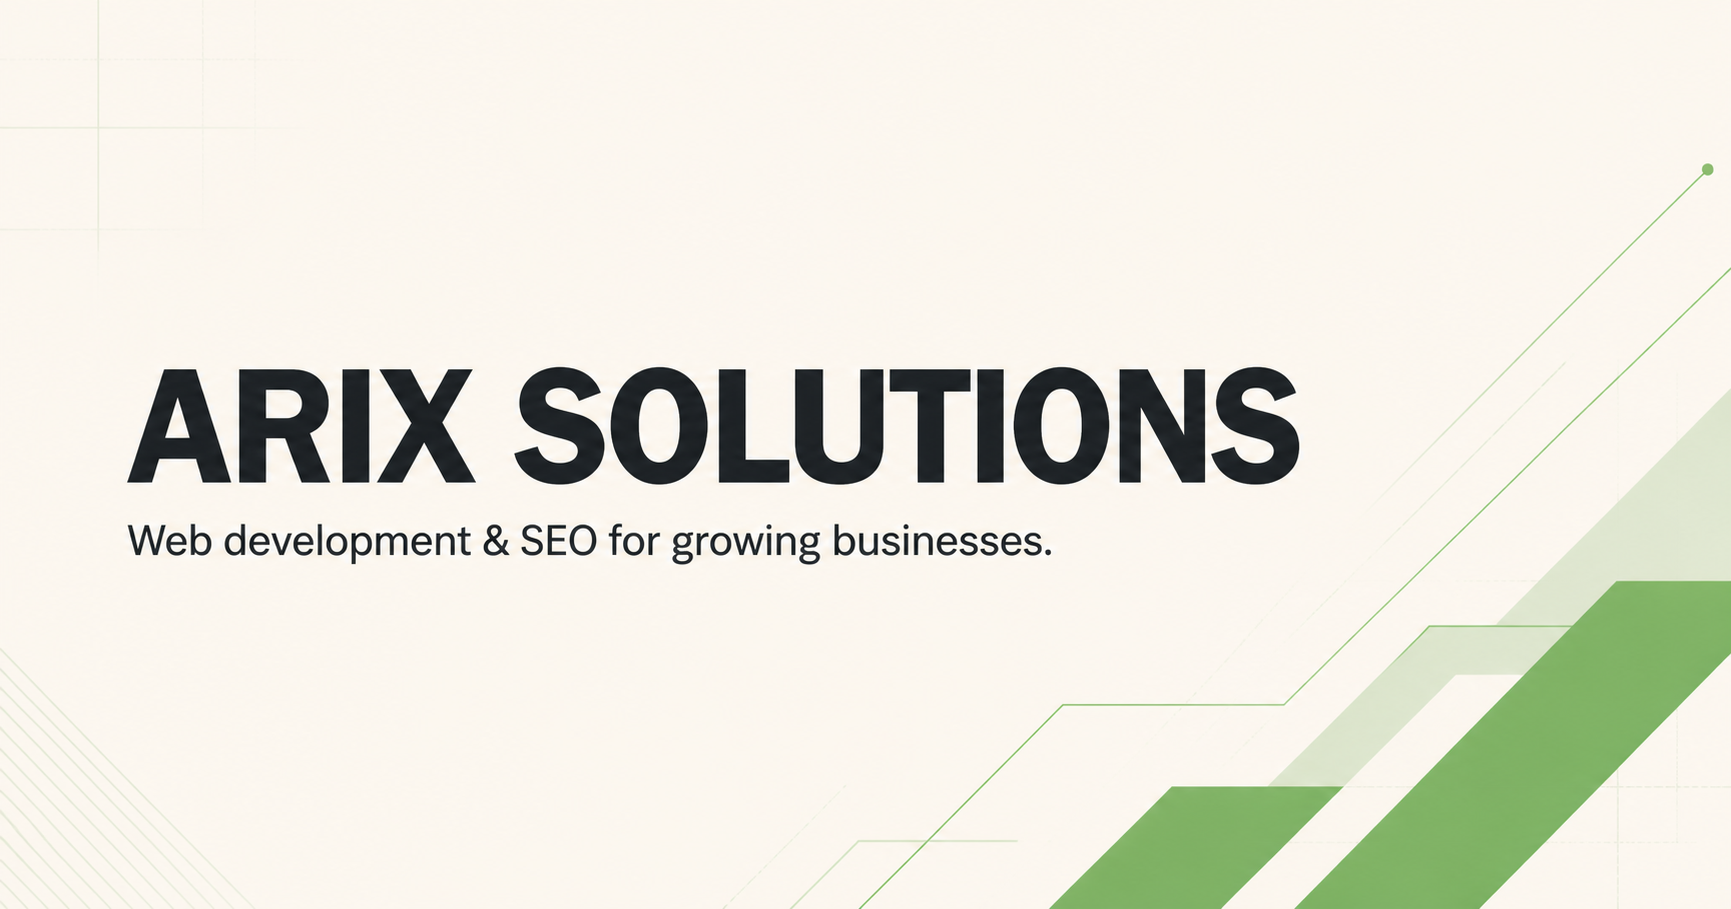
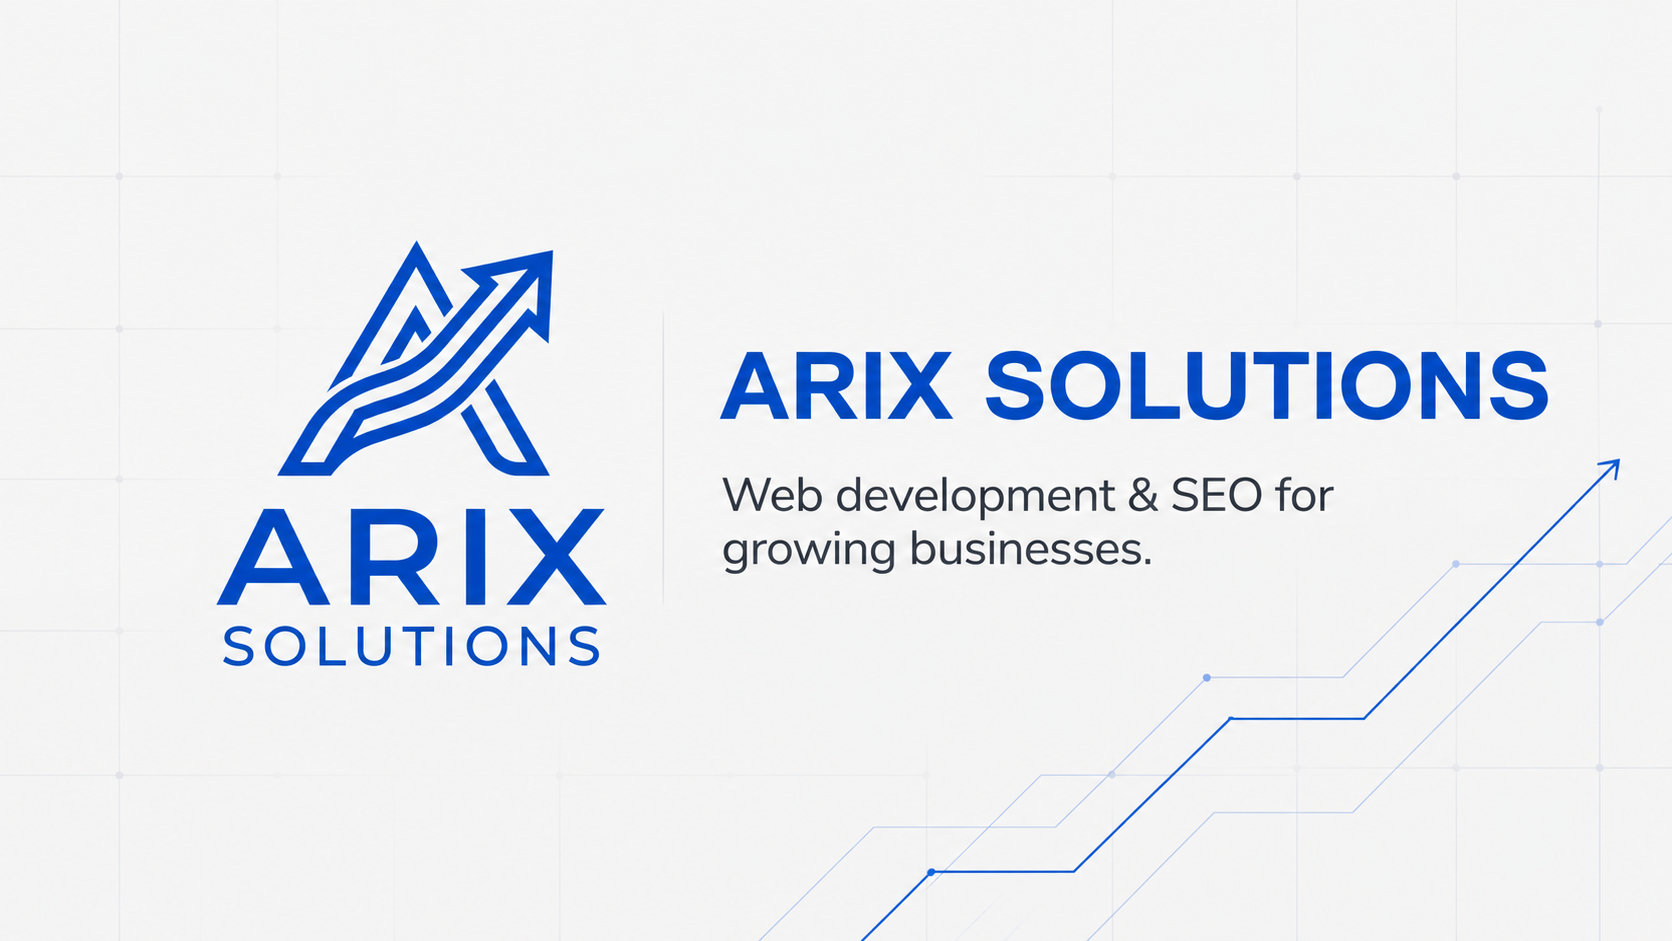
Apply ARIX Solutions blue brand identity

diff --git a/app/solutions/solutions.css b/app/solutions/solutions.css
@@ -1,38 +1,37 @@
-body.solutions-active { background: #f4f6ef; }
-body.solutions-active .site-header { background: rgba(248, 250, 245, .9); border-bottom-color: rgba(20, 28, 18, .13); }
+body.solutions-active { background: #f4f7fb; }
+body.solutions-active .site-header { background: rgba(255, 255, 255, .92); border-bottom-color: rgba(18, 103, 194, .16); }
 body.solutions-active .theme-toggle { display: none; }
 
-.solutions-site { --s-bg: #f4f6ef; --s-paper: #fbfcf8; --s-ink: #10150e; --s-muted: #687064; --s-line: rgba(16, 21, 14, .17); --s-green: #62b51c; min-height: 100vh; background: var(--s-bg); color: var(--s-ink); }
-.solutions-header { position: fixed; z-index: 100; inset: 0 0 auto; height: 78px; border-bottom: 1px solid rgba(16,21,14,.14); background: rgba(251,252,248,.9); backdrop-filter: blur(20px); }
+.solutions-site { --s-bg: #f4f7fb; --s-paper: #ffffff; --s-ink: #0b1f3a; --s-muted: #607089; --s-line: rgba(18, 103, 194, .18); --s-green: #1267c2; --s-green-soft: #e2efff; min-height: 100vh; background: var(--s-bg); color: var(--s-ink); }
+.solutions-header { position: fixed; z-index: 100; inset: 0 0 auto; height: 78px; border-bottom: 1px solid rgba(18,103,194,.16); background: rgba(255,255,255,.92); backdrop-filter: blur(20px); }
 .solutions-nav-shell { width: min(1360px, calc(100% - 56px)); height: 100%; margin-inline: auto; display: flex; align-items: center; justify-content: space-between; }
 .solutions-brand { display: inline-flex; color: var(--s-ink); }
 .solutions-wordmark { display: inline-flex; align-items: center; gap: 10px; }
-.solutions-wordmark-mark { width: 38px; height: 38px; display: grid; place-items: center; border-radius: 50%; background: var(--s-ink); color: #fff; font-size: 19px; font-weight: 780; letter-spacing: -.08em; }
-.solutions-wordmark-mark span { color: #93ed43; }
+.solutions-wordmark-mark { position: relative; width: 43px; height: 45px; overflow: hidden; flex: 0 0 auto; }
+.solutions-wordmark-mark img { position: absolute; width: 67px; height: auto; max-width: none; left: 50%; top: -5px; transform: translateX(-50%); }
 .solutions-wordmark-name { display: grid; gap: 1px; line-height: 1; }
-.solutions-wordmark-name strong { font-size: 9px; letter-spacing: .24em; }
-.solutions-wordmark-name b { font-size: 16px; letter-spacing: -.035em; }
-.solutions-wordmark.is-large .solutions-wordmark-mark { width: 54px; height: 54px; font-size: 26px; }
-.solutions-wordmark.is-large .solutions-wordmark-name strong { font-size: 10px; }
-.solutions-wordmark.is-large .solutions-wordmark-name b { font-size: 23px; }
+.solutions-wordmark-name strong { color: #1267c2; font-size: 9px; letter-spacing: .24em; }
+.solutions-wordmark-name b { color: #1267c2; font-size: 16px; letter-spacing: -.035em; }
+.solutions-wordmark-full { width: 180px; height: 214px; display: block; overflow: hidden; border-radius: 4px; }
+.solutions-wordmark-full img { width: 100%; height: 100%; object-fit: cover; display: block; }
 .solutions-nav-links { display: flex; align-items: center; gap: 32px; font-family: var(--font-geist-mono), monospace; font-size: 9px; font-weight: 650; letter-spacing: .13em; text-transform: uppercase; }
-.solutions-nav-links > a { color: #454d40; transition: color .2s ease; }
+.solutions-nav-links > a { color: #40516a; transition: color .2s ease; }
 .solutions-nav-links > a:hover { color: var(--s-green); }
-.solutions-nav-links .solutions-nav-cta { min-height: 43px; padding: 0 16px; display: flex; align-items: center; gap: 30px; background: var(--s-ink); color: #fff; }
-.solutions-nav-links .solutions-nav-cta:hover { background: var(--s-green); color: #0b1406; }
+.solutions-nav-links .solutions-nav-cta { min-height: 43px; padding: 0 16px; display: flex; align-items: center; gap: 30px; background: var(--s-green); color: #fff; }
+.solutions-nav-links .solutions-nav-cta:hover { background: #09519f; color: #fff; }
 .solutions-menu { display: none; width: 42px; height: 42px; padding: 12px; border: 1px solid var(--s-line); background: transparent; }
 .solutions-menu span { display: block; height: 1px; margin: 5px 0; background: var(--s-ink); }
 
-.solutions-page { --s-bg: #f4f6ef; --s-paper: #fbfcf8; --s-ink: #10150e; --s-muted: #687064; --s-line: rgba(16, 21, 14, .17); --s-green: #62b51c; --s-green-soft: #dfffbd; min-height: 100vh; overflow: hidden; background: var(--s-bg); color: var(--s-ink); }
+.solutions-page { --s-bg: #f4f7fb; --s-paper: #ffffff; --s-ink: #0b1f3a; --s-muted: #607089; --s-line: rgba(18, 103, 194, .18); --s-green: #1267c2; --s-green-soft: #e2efff; min-height: 100vh; overflow: hidden; background: var(--s-bg); color: var(--s-ink); }
 .solutions-shell { width: min(1180px, calc(100% - 48px)); margin-inline: auto; }
 .solutions-label, .solutions-section-number { margin: 0; font-family: var(--font-geist-mono), monospace; font-size: 10px; line-height: 1.4; letter-spacing: .15em; text-transform: uppercase; }
-.solutions-label { display: flex; align-items: center; gap: 10px; color: #36412f; }
-.solutions-label > span { width: 7px; height: 7px; border-radius: 50%; background: var(--s-green); box-shadow: 0 0 0 6px rgba(98, 181, 28, .12); }
+.solutions-label { display: flex; align-items: center; gap: 10px; color: #31465f; }
+.solutions-label > span { width: 7px; height: 7px; border-radius: 50%; background: var(--s-green); box-shadow: 0 0 0 6px rgba(18, 103, 194, .12); }
 .solutions-section-number { color: var(--s-green); }
 
 .solutions-hero { position: relative; min-height: 830px; padding: 166px 0 78px; display: flex; flex-direction: column; justify-content: space-between; background: var(--s-paper); border-bottom: 1px solid var(--s-line); }
-.solutions-grid { position: absolute; inset: 76px 0 0; pointer-events: none; opacity: .45; background-image: linear-gradient(rgba(16, 21, 14, .06) 1px, transparent 1px), linear-gradient(90deg, rgba(16, 21, 14, .06) 1px, transparent 1px); background-size: 72px 72px; mask-image: linear-gradient(90deg, transparent, black 35%, black 70%, transparent); }
-.solutions-hero:after { content: ""; position: absolute; width: 540px; height: 540px; right: -160px; top: 60px; border: 1px solid rgba(98, 181, 28, .25); border-radius: 50%; box-shadow: 0 0 0 72px rgba(98, 181, 28, .04), 0 0 0 144px rgba(98, 181, 28, .025); }
+.solutions-grid { position: absolute; inset: 76px 0 0; pointer-events: none; opacity: .45; background-image: linear-gradient(rgba(18, 103, 194, .07) 1px, transparent 1px), linear-gradient(90deg, rgba(18, 103, 194, .07) 1px, transparent 1px); background-size: 72px 72px; mask-image: linear-gradient(90deg, transparent, black 35%, black 70%, transparent); }
+.solutions-hero:after { content: ""; position: absolute; width: 540px; height: 540px; right: -160px; top: 60px; border: 1px solid rgba(18, 103, 194, .25); border-radius: 50%; box-shadow: 0 0 0 72px rgba(18, 103, 194, .05), 0 0 0 144px rgba(18, 103, 194, .03); }
 .solutions-hero-layout { position: relative; z-index: 2; display: grid; grid-template-columns: 1.35fr .65fr; gap: 94px; align-items: end; }
 .solutions-hero-copy h1 { max-width: 820px; margin: 27px 0 0; font-size: clamp(58px, 6.5vw, 95px); line-height: .94; letter-spacing: -.065em; text-transform: uppercase; }
 .solutions-hero-copy h1 em { display: block; color: var(--s-green); font-style: normal; }
@@ -41,10 +40,10 @@ body.solutions-active .theme-toggle { display: none; }
 .solutions-button { min-height: 54px; padding: 0 18px; display: inline-flex; align-items: center; justify-content: space-between; gap: 42px; border: 1px solid var(--s-line); font-family: var(--font-geist-mono), monospace; font-size: 10px; font-weight: 700; letter-spacing: .1em; text-transform: uppercase; transition: transform .25s ease, background .25s ease; }
 .solutions-button:hover { transform: translateY(-3px); }
 .solutions-button.primary { background: var(--s-ink); color: #fff; border-color: var(--s-ink); }
-.solutions-button.primary:hover { background: var(--s-green); border-color: var(--s-green); color: #0b1406; }
+.solutions-button.primary:hover { background: var(--s-green); border-color: var(--s-green); color: #fff; }
 .solutions-button.secondary { background: rgba(255,255,255,.58); }
 
-.solutions-index { min-height: 445px; display: flex; flex-direction: column; border: 1px solid var(--s-line); background: rgba(251, 252, 248, .84); backdrop-filter: blur(12px); }
+.solutions-index { min-height: 445px; display: flex; flex-direction: column; border: 1px solid var(--s-line); background: rgba(255, 255, 255, .86); backdrop-filter: blur(12px); }
 .solutions-index-top, .solutions-index-bottom { padding: 19px 22px; display: flex; align-items: center; justify-content: space-between; gap: 20px; font-family: var(--font-geist-mono), monospace; font-size: 8px; letter-spacing: .12em; text-transform: uppercase; }
 .solutions-index-top { border-bottom: 1px solid var(--s-line); color: var(--s-muted); }
 .solutions-index-top b { color: var(--s-green); font-weight: 500; }
@@ -55,8 +54,8 @@ body.solutions-active .theme-toggle { display: none; }
 .solutions-index small { color: var(--s-muted); font-family: var(--font-geist-mono), monospace; font-size: 8px; letter-spacing: .1em; text-transform: uppercase; }
 .solutions-index strong { font-size: 20px; text-transform: uppercase; letter-spacing: -.025em; }
 .solutions-index > a i { color: var(--s-green); font-style: normal; }
-.solutions-index-bottom { margin-top: auto; align-items: flex-end; background: var(--s-ink); color: #fff; }
-.solutions-index-bottom span { color: #a7b1a1; }
+.solutions-index-bottom { margin-top: auto; align-items: flex-end; background: #0b2c54; color: #fff; }
+.solutions-index-bottom span { color: #a9c5e4; }
 .solutions-index-bottom strong { max-width: 180px; text-align: right; line-height: 1.35; }
 .solutions-marquee { position: relative; z-index: 2; width: min(1180px, calc(100% - 48px)); margin: 76px auto 0; padding-top: 22px; display: flex; align-items: center; justify-content: space-between; gap: 22px; border-top: 1px solid var(--s-line); color: var(--s-muted); font-family: var(--font-geist-mono), monospace; font-size: 9px; letter-spacing: .14em; text-transform: uppercase; }
 .solutions-marquee i { width: 4px; height: 4px; border-radius: 50%; background: var(--s-green); }
@@ -65,22 +64,22 @@ body.solutions-active .theme-toggle { display: none; }
 .solutions-intro h2, .solutions-heading h2, .solutions-fit h2, .solutions-contact h2 { margin: 0; font-size: clamp(42px, 5.2vw, 72px); line-height: .98; letter-spacing: -.055em; text-transform: uppercase; }
 .solutions-intro > div > p { max-width: 680px; margin: 34px 0 0 auto; color: var(--s-muted); font-size: 18px; line-height: 1.7; }
 
-.solutions-services { padding-block: 125px; background: var(--s-ink); color: #f8fbf4; }
+.solutions-services { padding-block: 125px; background: #071a33; color: #f8fbff; }
 .solutions-heading { display: grid; grid-template-columns: 1.35fr .65fr; gap: 80px; align-items: end; margin-bottom: 58px; }
 .solutions-heading .solutions-section-number { margin-bottom: 18px; }
-.solutions-heading > p { margin: 0; color: #9ca496; line-height: 1.65; }
+.solutions-heading > p { margin: 0; color: #9aadc5; line-height: 1.65; }
 .solutions-service-grid { display: grid; grid-template-columns: 1fr 1fr; gap: 1px; padding: 1px; background: rgba(255,255,255,.14); }
-.solutions-service-grid article { min-height: 610px; padding: 42px; display: flex; flex-direction: column; background: #151b13; transition: background .3s ease; scroll-margin-top: 100px; }
-.solutions-service-grid article:hover { background: #1a2117; }
+.solutions-service-grid article { min-height: 610px; padding: 42px; display: flex; flex-direction: column; background: #0b2447; transition: background .3s ease; scroll-margin-top: 100px; }
+.solutions-service-grid article:hover { background: #10305c; }
 .solutions-service-head { display: flex; align-items: center; justify-content: space-between; }
-.solutions-service-head span { color: #98ee4f; font-family: var(--font-geist-mono), monospace; font-size: 11px; }
-.solutions-service-head i { padding: 9px 11px; border: 1px solid rgba(152,238,79,.35); color: #98ee4f; font-family: var(--font-geist-mono), monospace; font-size: 8px; letter-spacing: .14em; font-style: normal; }
+.solutions-service-head span { color: #69b6ff; font-family: var(--font-geist-mono), monospace; font-size: 11px; }
+.solutions-service-head i { padding: 9px 11px; border: 1px solid rgba(105,182,255,.4); color: #69b6ff; font-family: var(--font-geist-mono), monospace; font-size: 8px; letter-spacing: .14em; font-style: normal; }
 .solutions-service-grid h3 { margin: 86px 0 20px; font-size: clamp(40px, 4.5vw, 64px); line-height: 1; letter-spacing: -.055em; text-transform: uppercase; }
-.solutions-service-grid article > p { max-width: 510px; margin: 0; color: #aab2a5; line-height: 1.65; }
+.solutions-service-grid article > p { max-width: 510px; margin: 0; color: #a9bfd9; line-height: 1.65; }
 .solutions-service-grid ul { margin: 42px 0 0; padding: 0; list-style: none; border-top: 1px solid rgba(255,255,255,.13); }
-.solutions-service-grid li { padding: 14px 0; display: flex; gap: 14px; border-bottom: 1px solid rgba(255,255,255,.13); color: #e6ebe2; font-size: 14px; }
-.solutions-service-grid li span { color: #98ee4f; }
-.solutions-service-grid article > a { margin-top: auto; padding-top: 36px; display: flex; justify-content: space-between; color: #98ee4f; font-family: var(--font-geist-mono), monospace; font-size: 9px; letter-spacing: .12em; text-transform: uppercase; }
+.solutions-service-grid li { padding: 14px 0; display: flex; gap: 14px; border-bottom: 1px solid rgba(255,255,255,.13); color: #e7f2ff; font-size: 14px; }
+.solutions-service-grid li span { color: #69b6ff; }
+.solutions-service-grid article > a { margin-top: auto; padding-top: 36px; display: flex; justify-content: space-between; color: #69b6ff; font-family: var(--font-geist-mono), monospace; font-size: 9px; letter-spacing: .12em; text-transform: uppercase; }
 
 .solutions-process { padding-block: 125px; }
 .solutions-process .solutions-heading > p { color: var(--s-muted); }
@@ -90,11 +89,11 @@ body.solutions-active .theme-toggle { display: none; }
 .solutions-process-grid article > span { color: var(--s-green); font-family: var(--font-geist-mono), monospace; font-size: 9px; }
 .solutions-process-mark { height: 70px; margin-top: 28px; display: flex; align-items: center; }
 .solutions-process-mark:before { content: ""; flex: 1; border-top: 1px dashed var(--s-line); }
-.solutions-process-mark i { width: 12px; height: 12px; border: 3px solid var(--s-green); border-radius: 50%; box-shadow: 0 0 0 7px rgba(98,181,28,.1); }
+.solutions-process-mark i { width: 12px; height: 12px; border: 3px solid var(--s-green); border-radius: 50%; box-shadow: 0 0 0 7px rgba(18,103,194,.1); }
 .solutions-process-grid h3 { margin: 34px 0 12px; font-size: 24px; letter-spacing: -.035em; text-transform: uppercase; }
 .solutions-process-grid p { margin: 0; color: var(--s-muted); font-size: 14px; line-height: 1.6; }
 
-.solutions-fit { padding-block: 125px; background: #e8ece3; border-block: 1px solid var(--s-line); }
+.solutions-fit { padding-block: 125px; background: #eaf2fb; border-block: 1px solid var(--s-line); }
 .solutions-fit-layout { display: grid; grid-template-columns: 1fr 1fr; gap: 90px; align-items: end; }
 .solutions-fit .solutions-section-number { margin-bottom: 20px; }
 .solutions-fit-list { border-top: 1px solid var(--s-line); }
@@ -110,13 +109,13 @@ body.solutions-active .theme-toggle { display: none; }
 .solutions-contact address strong { display: block; font-size: 16px; }
 .solutions-contact address p { margin: 12px 0 0; color: var(--s-muted); font-size: 14px; line-height: 1.6; }
 
-.solutions-footer { padding: 86px 0 24px; border-top: 1px solid var(--s-line); background: #e8ece3; }
+.solutions-footer { padding: 86px 0 24px; border-top: 1px solid var(--s-line); background: #eaf2fb; }
 .solutions-footer-main { display: grid; grid-template-columns: .85fr 1.15fr; gap: 90px; padding-bottom: 72px; }
 .solutions-footer-main > div:first-child > p { max-width: 400px; margin: 28px 0 0; color: var(--s-muted); line-height: 1.6; }
 .solutions-footer-links { display: grid; grid-template-columns: .7fr .8fr 1.3fr; gap: 46px; }
 .solutions-footer-links > div, .solutions-footer-links address { display: flex; flex-direction: column; gap: 13px; font-style: normal; }
 .solutions-footer-links strong { margin-bottom: 14px; color: var(--s-green); font-family: var(--font-geist-mono), monospace; font-size: 9px; letter-spacing: .13em; text-transform: uppercase; }
-.solutions-footer-links a, .solutions-footer-links span { color: #464e42; font-size: 13px; line-height: 1.6; }
+.solutions-footer-links a, .solutions-footer-links span { color: #40516a; font-size: 13px; line-height: 1.6; }
 .solutions-footer-links a:hover { color: var(--s-green); }
 .solutions-footer-bottom { padding-top: 22px; display: flex; justify-content: space-between; border-top: 1px solid var(--s-line); color: var(--s-muted); font-family: var(--font-geist-mono), monospace; font-size: 8px; letter-spacing: .12em; text-transform: uppercase; }
 
@@ -133,7 +132,7 @@ body.solutions-active .theme-toggle { display: none; }
   .solutions-header { height: 68px; }
   .solutions-nav-shell { width: min(100% - 30px, 1180px); }
   .solutions-menu { display: block; }
-  .solutions-nav-links { position: absolute; inset: 68px 0 auto; display: none; flex-direction: column; align-items: stretch; gap: 0; padding: 16px 18px 24px; border-bottom: 1px solid var(--s-line); background: #fbfcf8; }
+  .solutions-nav-links { position: absolute; inset: 68px 0 auto; display: none; flex-direction: column; align-items: stretch; gap: 0; padding: 16px 18px 24px; border-bottom: 1px solid var(--s-line); background: #fff; }
   .solutions-nav-links.is-open { display: flex; }
   .solutions-nav-links > a { padding: 16px 0; border-bottom: 1px solid var(--s-line); }
   .solutions-nav-links .solutions-nav-cta { margin-top: 14px; padding-inline: 14px; border: 0; }

diff --git a/app/components/SolutionsChrome.tsx b/app/components/SolutionsChrome.tsx
@@ -1,12 +1,16 @@
 "use client";
 
 import Link from "next/link";
+import Image from "next/image";
 import { useState } from "react";
 
 function SolutionsWordmark({ large = false }: { large?: boolean }) {
+  if (large) {
+    return <span className="solutions-wordmark-full" aria-hidden="true"><Image src="/arix-solutions-logo.jpeg" alt="" width={1050} height={1250} /></span>;
+  }
   return (
-    <span className={large ? "solutions-wordmark is-large" : "solutions-wordmark"} aria-hidden="true">
-      <span className="solutions-wordmark-mark">S<span>/</span></span>
+    <span className="solutions-wordmark" aria-hidden="true">
+      <span className="solutions-wordmark-mark"><Image src="/arix-solutions-logo.jpeg" alt="" width={1050} height={1250} /></span>
       <span className="solutions-wordmark-name"><strong>ARIX</strong><b>SOLUTIONS</b></span>
     </span>
   );

diff --git a/app/solutions/layout.tsx b/app/solutions/layout.tsx
@@ -8,7 +8,7 @@ const description = "ARIX Solutions builds modern websites and end-to-end techno
 export const metadata: Metadata = {
   title: { absolute: `${title} | ARIX Solutions` },
   description,
-  openGraph: { title: `${title} | ARIX Solutions`, description, images: [{ url: "/arix-solutions-og.png", width: 1731, height: 909, alt: "ARIX Solutions — web development and SEO for growing businesses" }] },
+  openGraph: { title: `${title} | ARIX Solutions`, description, images: [{ url: "/arix-solutions-og.png", width: 1672, height: 941, alt: "ARIX Solutions — web development and SEO for growing businesses" }] },
   twitter: { card: "summary_large_image", title: `${title} | ARIX Solutions`, description, images: ["/arix-solutions-og.png"] },
 };
 
